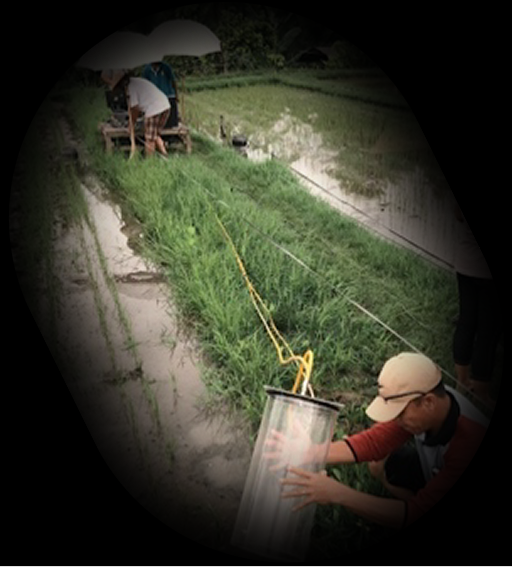
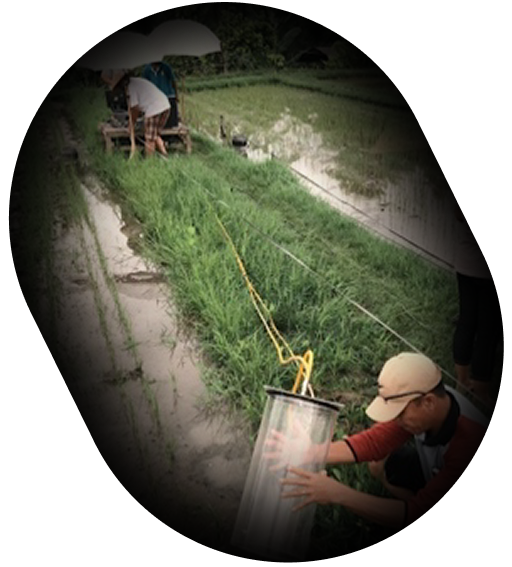
Fix mobile image display

Changed region(s): [[0.0, 0.0, 1.0, 1.0]]

diff --git a/src/components/CenterImage.module.scss b/src/components/CenterImage.module.scss
@@ -16,20 +16,21 @@
       position: absolute;
       overflow: hidden;
       width: 50vw;
-      height: 50vh;
+      height: 50dvh;
       min-width: 300px;
       max-height: 500px;
 
       @media (max-width: 750px) {
         width: 80vw;
-        height: 70vh;
-        min-width: 600px;
+        height: 70dvh;
+        max-width: 600px;
         max-height: 800px;
       }
       .image {
         height: 100%;
         width: 100%;
         object-fit: contain;
+        background-color: var(--background);
       }
     }
   }
